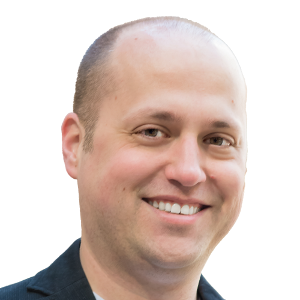
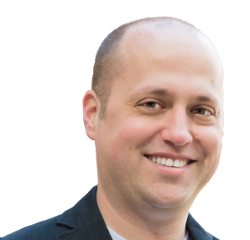
update small headshot to be a better size

diff --git a/assets/all.css b/assets/all.css
@@ -1,3 +1,3 @@
-#content{margin-top:.9375rem;padding:.9375rem}.embed-container{position:relative;padding-bottom:56.25%;padding-top:30px;height:0;overflow:hidden}.embed-container embed,.embed-container iframe,.embed-container object{position:absolute;top:0;left:0;height:100%;width:100%}@font-face{font-family:fontello;src:url(../font/fontello.eot?14708222);src:url(../font/fontello.eot?14708222#iefix) format("embedded-opentype"),url(../font/fontello.woff?14708222) format("woff"),url(../font/fontello.ttf?14708222) format("truetype"),url(../font/fontello.svg?14708222#fontello) format("svg");font-weight:400;font-style:normal}[class*=" icon-"]:before,[class^=icon-]:before{font-family:fontello;font-style:normal;font-weight:400;speak:none;display:inline-block;text-decoration:inherit;width:1em;margin-right:.2em;text-align:center;font-variant:normal;text-transform:none;line-height:1em;margin-left:.2em;-webkit-font-smoothing:antialiased;-moz-osx-font-smoothing:grayscale}.icon-key:before{content:'\e800'}.icon-rss:before{content:'\e801'}.icon-clock:before{content:'\e802'}.icon-left:before{content:'\e804'}.icon-right:before{content:'\e805'}.icon-twitter:before{content:'\e806'}.icon-github:before{content:'\e807'}.icon-google-plus:before{content:'\e808'}.icon-facebook:before{content:'\e809'}.icon-email:before{content:'\e80b'}#footer{color:#9e9e9e;margin-top:3.75rem}#footer .links{display:-webkit-flex;display:-ms-flexbox;display:flex;-webkit-justify-content:space-between;-ms-flex-pack:justify;justify-content:space-between;margin-top:.9375rem;padding:.9375rem .46875rem}#footer .links a{color:#9e9e9e;font-size:1.25em}#footer p{font-size:.9em;margin:0;padding:0 .9375rem}#footer .copyright{font-size:.7em;padding:.9375rem .46875rem;text-align:center}.button{background-color:#649030;border:0;color:#fff;margin-top:.9375rem;padding:8px}.button:hover{opacity:.75}#header{background-color:#393939}#header .container{display:-webkit-flex;display:-ms-flexbox;display:flex;-webkit-justify-content:space-between;-ms-flex-pack:justify;justify-content:space-between;-webkit-flex-wrap:wrap;-ms-flex-wrap:wrap;flex-wrap:wrap;padding:.9375rem 0 0;position:relative}@media only screen and (min-width:590px){#header .container{padding:.9375rem .9375rem 0}}#header .logo{-webkit-flex-basis:100%;-ms-flex-preferred-size:100%;flex-basis:100%}@media only screen and (min-width:590px){#header .logo{-webkit-flex-basis:300px;-ms-flex-preferred-size:300px;flex-basis:300px}}#header .logo a{display:-webkit-flex;display:-ms-flexbox;display:flex;-webkit-justify-content:center;-ms-flex-pack:center;justify-content:center;-webkit-align-items:center;-ms-flex-align:center;align-items:center}@media only screen and (min-width:590px){#header .logo a{-webkit-justify-content:flex-start;-ms-flex-pack:start;justify-content:flex-start;margin-left:5px}}#header .logo img{height:100px}#header .logo h1{color:#fff;font-size:1.75em;margin:0 0 0 .46875rem}#header ul{-webkit-align-items:flex-end;-ms-flex-align:end;align-items:flex-end;border-top:1px solid #9e9e9e;display:-webkit-flex;display:-ms-flexbox;display:flex;font-size:1.4em;list-style-type:none;margin:0;padding:.9375rem 0;width:100%}@media only screen and (min-width:590px){#header ul{border-top:0;width:auto}}#header ul a{padding-left:.9375rem;color:#9e9e9e}#header ul a:hover{color:#fff}.header{background-color:#393939;padding-top:.9375rem;margin-bottom:.9375rem}.homepage-header{-webkit-align-items:center;-ms-flex-align:center;-ms-grid-row-align:center;align-items:center;color:#fff}@media only screen and (min-width:590px){.homepage-header{height:300px}}.homepage-header img{float:left;height:150px;padding-right:1.875rem}@media only screen and (min-width:590px){.homepage-header img{height:300px}}.homepage-header .intro{-webkit-align-items:center;-ms-flex-align:center;align-items:center;display:-webkit-flex;display:-ms-flexbox;display:flex;height:150px;margin:0}@media only screen and (min-width:590px){.homepage-header .intro{padding-top:3.75rem;height:auto}}.homepage-header .sign-up{border-top:1px solid #9e9e9e;padding:.9375rem;text-align:center}.homepage-header .sign-up>p{margin:0}.homepage-header .sign-up>p:not(:last-child){padding-bottom:.9375rem}@media only screen and (min-width:590px){.homepage-header .sign-up{border:0;text-align:inherit}}.homepage{padding:.9375rem}@media only screen and (min-width:720px){.homepage{padding:.9375rem 0 0}}.homepage .section:not(:first-child){margin-top:2.8125rem}.homepage .section h2{font-size:2em}.homepage .section h3{font-size:1.25em;margin-bottom:.46875rem}.homepage .sub-section{display:-webkit-flex;display:-ms-flexbox;display:flex;-webkit-justify-content:space-between;-ms-flex-pack:justify;justify-content:space-between;-webkit-flex-wrap:wrap;-ms-flex-wrap:wrap;flex-wrap:wrap}.homepage .sub-section>div{-webkit-flex:0 0 100%;-ms-flex:0 0 100%;flex:0 0 100%;margin-top:.9375rem}@media only screen and (min-width:590px){.homepage .sub-section>div{-webkit-flex:0 0 48%;-ms-flex:0 0 48%;flex:0 0 48%;margin-top:0}}.homepage .sub-section>div.full{-webkit-flex-basis:100%;-ms-flex-preferred-size:100%;flex-basis:100%}.homepage .sub-section p{margin:0}.homepage .sub-section ul{list-style-type:none;padding-left:.9375rem}.homepage .sub-section ol{margin-top:.9375rem;padding-left:.9375rem}.homepage .description .logo{margin-right:.9375rem;float:left}.homepage .description .logo.active-interaction{font-size:60px;line-height:60px}.homepage .subtle{color:#6b6b6b}.homepage .all-posts{display:block;font-size:2em;text-align:center;width:100%}.image{margin-bottom:1.25rem;width:100%}.image.center{text-align:center}.image.left{text-align:left}.image img{max-width:100%}.image em{color:#9e9e9e;display:block;font-size:.8rem}*,:after,:before{box-sizing:border-box}body{color:#222;font-family:Helvetica Neue,Helvetica,Arial,sans-serif;font-size:16px;line-height:150%}h1,h2,h3,h4{font-weight:700;line-height:1.1;margin:0}h2{font-size:2.5rem}@media only screen and (min-width:590px){h2{font-size:3rem}}h3{font-size:1.6875rem}a{color:#20ade5;text-decoration:none}a:hover{color:#168dbc}time{color:#9e9e9e;display:block;font-size:.8rem;font-style:italic;margin:.9375rem 0}.container{max-width:700px;min-width:320px;margin:auto}ol.posts{margin:0;padding:0;list-style-type:none}ol.posts li{margin-bottom:3.75rem}ol.posts li>a{color:#222}figure{margin-left:0!important}blockquote{color:#757575;border-left:1px solid #9e9e9e;margin:.9375rem;padding-left:.9375rem}kbd{background-color:#f8f8f8;border:1px solid #e0e0e0;border-radius:3px;padding:.125rem .3125rem .0625rem}
+#content{margin-top:.9375rem;padding:.9375rem}.embed-container{position:relative;padding-bottom:56.25%;padding-top:30px;height:0;overflow:hidden}.embed-container embed,.embed-container iframe,.embed-container object{position:absolute;top:0;left:0;height:100%;width:100%}@font-face{font-family:fontello;src:url(../font/fontello.eot?14708222);src:url(../font/fontello.eot?14708222#iefix) format("embedded-opentype"),url(../font/fontello.woff?14708222) format("woff"),url(../font/fontello.ttf?14708222) format("truetype"),url(../font/fontello.svg?14708222#fontello) format("svg");font-weight:400;font-style:normal}[class*=" icon-"]:before,[class^=icon-]:before{font-family:fontello;font-style:normal;font-weight:400;speak:none;display:inline-block;text-decoration:inherit;width:1em;margin-right:.2em;text-align:center;font-variant:normal;text-transform:none;line-height:1em;margin-left:.2em;-webkit-font-smoothing:antialiased;-moz-osx-font-smoothing:grayscale}.icon-key:before{content:'\e800'}.icon-rss:before{content:'\e801'}.icon-clock:before{content:'\e802'}.icon-left:before{content:'\e804'}.icon-right:before{content:'\e805'}.icon-twitter:before{content:'\e806'}.icon-github:before{content:'\e807'}.icon-google-plus:before{content:'\e808'}.icon-facebook:before{content:'\e809'}.icon-email:before{content:'\e80b'}#footer{color:#9e9e9e;margin-top:3.75rem}#footer .links{display:-webkit-flex;display:-ms-flexbox;display:flex;-webkit-justify-content:space-between;-ms-flex-pack:justify;justify-content:space-between;margin-top:.9375rem;padding:.9375rem .46875rem}#footer .links a{color:#9e9e9e;font-size:1.25em}#footer p{font-size:.9em;margin:0;padding:0 .9375rem}#footer .copyright{font-size:.7em;padding:.9375rem .46875rem;text-align:center}.button{background-color:#649030;border:0;color:#fff;margin-top:.9375rem;padding:8px}.button:hover{opacity:.75}#header{background-color:#393939}#header .container{display:-webkit-flex;display:-ms-flexbox;display:flex;-webkit-justify-content:space-between;-ms-flex-pack:justify;justify-content:space-between;-webkit-flex-wrap:wrap;-ms-flex-wrap:wrap;flex-wrap:wrap;padding:.9375rem 0 0;position:relative}@media only screen and (min-width:590px){#header .container{padding:.9375rem .9375rem 0}}#header .logo{-webkit-flex-basis:100%;-ms-flex-preferred-size:100%;flex-basis:100%}@media only screen and (min-width:590px){#header .logo{-webkit-flex-basis:300px;-ms-flex-preferred-size:300px;flex-basis:300px}}#header .logo a{display:-webkit-flex;display:-ms-flexbox;display:flex;-webkit-justify-content:center;-ms-flex-pack:center;justify-content:center;-webkit-align-items:center;-ms-flex-align:center;align-items:center}@media only screen and (min-width:590px){#header .logo a{-webkit-justify-content:flex-start;-ms-flex-pack:start;justify-content:flex-start;margin-left:5px}}#header .logo img{height:120px}#header .logo h1{color:#fff;font-size:1.75em;margin:0 0 0 .46875rem}#header ul{-webkit-align-items:flex-end;-ms-flex-align:end;align-items:flex-end;border-top:1px solid #9e9e9e;display:-webkit-flex;display:-ms-flexbox;display:flex;font-size:1.4em;list-style-type:none;margin:0;padding:.9375rem 0;width:100%}@media only screen and (min-width:590px){#header ul{border-top:0;width:auto}}#header ul a{padding-left:.9375rem;color:#9e9e9e}#header ul a:hover{color:#fff}.header{background-color:#393939;padding-top:.9375rem;margin-bottom:.9375rem}.homepage-header{-webkit-align-items:center;-ms-flex-align:center;-ms-grid-row-align:center;align-items:center;color:#fff}@media only screen and (min-width:590px){.homepage-header{height:300px}}.homepage-header img{float:left;height:120px;padding-right:1.875rem}@media only screen and (min-width:590px){.homepage-header img{height:300px}}.homepage-header .intro{-webkit-align-items:center;-ms-flex-align:center;align-items:center;display:-webkit-flex;display:-ms-flexbox;display:flex;height:120px;margin:0}@media only screen and (min-width:590px){.homepage-header .intro{padding-top:3.75rem;height:auto}}.homepage-header .sign-up{border-top:1px solid #9e9e9e;padding:.9375rem;text-align:center}.homepage-header .sign-up>p{margin:0}.homepage-header .sign-up>p:not(:last-child){padding-bottom:.9375rem}@media only screen and (min-width:590px){.homepage-header .sign-up{border:0;text-align:inherit}}.homepage{padding:.9375rem}@media only screen and (min-width:720px){.homepage{padding:.9375rem 0 0}}.homepage .section:not(:first-child){margin-top:2.8125rem}.homepage .section h2{font-size:2em}.homepage .section h3{font-size:1.25em;margin-bottom:.46875rem}.homepage .sub-section{display:-webkit-flex;display:-ms-flexbox;display:flex;-webkit-justify-content:space-between;-ms-flex-pack:justify;justify-content:space-between;-webkit-flex-wrap:wrap;-ms-flex-wrap:wrap;flex-wrap:wrap}.homepage .sub-section>div{-webkit-flex:0 0 100%;-ms-flex:0 0 100%;flex:0 0 100%;margin-top:.9375rem}@media only screen and (min-width:590px){.homepage .sub-section>div{-webkit-flex:0 0 48%;-ms-flex:0 0 48%;flex:0 0 48%;margin-top:0}}.homepage .sub-section>div.full{-webkit-flex-basis:100%;-ms-flex-preferred-size:100%;flex-basis:100%}.homepage .sub-section p{margin:0}.homepage .sub-section ul{list-style-type:none;padding-left:.9375rem}.homepage .sub-section ol{margin-top:.9375rem;padding-left:.9375rem}.homepage .description .logo{margin-right:.9375rem;float:left}.homepage .description .logo.active-interaction{font-size:60px;line-height:60px}.homepage .subtle{color:#6b6b6b}.homepage .all-posts{display:block;font-size:2em;text-align:center;width:100%}.image{margin-bottom:1.25rem;width:100%}.image.center{text-align:center}.image.left{text-align:left}.image img{max-width:100%}.image em{color:#9e9e9e;display:block;font-size:.8rem}*,:after,:before{box-sizing:border-box}body{color:#222;font-family:Helvetica Neue,Helvetica,Arial,sans-serif;font-size:16px;line-height:150%}h1,h2,h3,h4{font-weight:700;line-height:1.1;margin:0}h2{font-size:2.5rem}@media only screen and (min-width:590px){h2{font-size:3rem}}h3{font-size:1.6875rem}a{color:#20ade5;text-decoration:none}a:hover{color:#168dbc}time{color:#9e9e9e;display:block;font-size:.8rem;font-style:italic;margin:.9375rem 0}.container{max-width:700px;min-width:320px;margin:auto}ol.posts{margin:0;padding:0;list-style-type:none}ol.posts li{margin-bottom:3.75rem}ol.posts li>a{color:#222}figure{margin-left:0!important}blockquote{color:#757575;border-left:1px solid #9e9e9e;margin:.9375rem;padding-left:.9375rem}kbd{background-color:#f8f8f8;border:1px solid #e0e0e0;border-radius:3px;padding:.125rem .3125rem .0625rem}
 
 /*! normalize.css v3.0.3 | MIT License | github.com/necolas/normalize.css */html{font-family:sans-serif;-ms-text-size-adjust:100%;-webkit-text-size-adjust:100%}body{margin:0}article,aside,details,figcaption,figure,footer,header,hgroup,main,menu,nav,section,summary{display:block}audio,canvas,progress,video{display:inline-block;vertical-align:baseline}audio:not([controls]){display:none;height:0}[hidden],template{display:none}a{background-color:transparent}a:active,a:hover{outline:0}abbr[title]{border-bottom:1px dotted}b,strong{font-weight:700}dfn{font-style:italic}h1{font-size:2em;margin:.67em 0}mark{background:#ff0;color:#000}small{font-size:80%}sub,sup{font-size:75%;line-height:0;position:relative;vertical-align:baseline}sup{top:-.5em}sub{bottom:-.25em}img{border:0}svg:not(:root){overflow:hidden}figure{margin:1em 40px}hr{box-sizing:content-box;height:0}pre{overflow:auto}code,kbd,pre,samp{font-family:monospace;font-size:1em}button,input,optgroup,select,textarea{color:inherit;font:inherit;margin:0}button{overflow:visible}button,select{text-transform:none}button,html input[type=button],input[type=reset],input[type=submit]{-webkit-appearance:button;cursor:pointer}button[disabled],html input[disabled]{cursor:default}button::-moz-focus-inner,input::-moz-focus-inner{border:0;padding:0}input{line-height:normal}input[type=checkbox],input[type=radio]{box-sizing:border-box;padding:0}input[type=number]::-webkit-inner-spin-button,input[type=number]::-webkit-outer-spin-button{height:auto}input[type=search]{-webkit-appearance:textfield;box-sizing:content-box}input[type=search]::-webkit-search-cancel-button,input[type=search]::-webkit-search-decoration{-webkit-appearance:none}fieldset{border:1px solid silver;margin:0 2px;padding:.35em .625em .75em}legend{border:0;padding:0}textarea{overflow:auto}optgroup{font-weight:700}table{border-collapse:collapse;border-spacing:0}td,th{padding:0}ul.pagination{display:-webkit-flex;display:-ms-flexbox;display:flex;-webkit-justify-content:center;-ms-flex-pack:center;justify-content:center;list-style-type:none;padding:0}ul.pagination li{margin-left:.3125rem}ul.pagination li a{color:#9e9e9e;border-radius:3px;padding:.0625rem .625rem}ul.pagination li.current a{background-color:#20ade5;color:#fff;font-weight:700}ul.pagination li.current a:hover{background-color:#168dbc}.panel{border:1px solid #d8d8d8;margin-bottom:1.25rem;padding:1.25rem;background:#f2f2f2}.panel.callout{border-color:#c1e8f8;background:#f2fafd}.footnotes li{list-style-type:decimal!important}.footnotes p{margin:0}#share{margin-top:2.8125rem;text-align:center}#share a{color:#fff;padding:8px}#share a:not(:last-child){margin-right:.9375rem}#share a:hover{opacity:.75}#share .twitter{background-color:#55acee}#share .google-plus{background-color:#db4437}#share .facebook{background-color:#3b5998}#subscribe{display:-webkit-flex;display:-ms-flexbox;display:flex;border:1px solid #ccc;background-color:#eee;margin:2.8125rem auto 0;max-width:450px;padding:.9375rem;text-align:center}@media only screen and (min-width:590px){#subscribe{padding:.9375rem 0 .9375rem .9375rem}}#subscribe img{display:none}@media only screen and (min-width:590px){#subscribe img{display:block}}#subscribe .title{font-size:1.4em;font-weight:700;margin-bottom:.9375rem}#subscribe input[type=email]{width:100%}@media only screen and (min-width:590px){#subscribe input[type=email]{width:inherit}}@media only screen and (min-width:590px){#subscribe .button{margin-left:.46875rem;margin-top:0}}.subscribe input[type=email]{border:0;color:#222;padding:0 8px;height:36px}@media only screen and (min-width:590px){.subscribe .button{margin-left:.46875rem;margin-top:0}}code{background-color:#f8f8f8;border:1px solid #e0e0e0;color:#222;font-family:Consolas,Courier,monospace;padding:.125rem .3125rem .0625rem}pre code{background-color:#fff;border:0;padding:0}.highlight{background:#fff;border-left:.25em solid #ccc;line-height:1.3;margin-bottom:.9375rem;padding-left:.5em}li .highlight{margin-top:.9375rem}.highlight .c{color:#998;font-style:italic}.highlight .err{color:#a61717;background-color:#e3d2d2}.highlight .k,.highlight .o{font-weight:700}.highlight .cm{color:#998;font-style:italic}.highlight .cp{color:#999;font-weight:700}.highlight .c1{color:#998;font-style:italic}.highlight .cs{color:#999;font-weight:700;font-style:italic}.highlight .gd{color:#000;background-color:#fdd}.highlight .gd .x{color:#000;background-color:#faa}.highlight .ge{font-style:italic}.highlight .gr{color:#a00}.highlight .gh{color:#999}.highlight .gi{color:#000;background-color:#dfd}.highlight .gi .x{color:#000;background-color:#afa}.highlight .go{color:#888}.highlight .gp{color:#555}.highlight .gs{font-weight:700}.highlight .gu{color:#aaa}.highlight .gt{color:#a00}.highlight .kc,.highlight .kd,.highlight .kp,.highlight .kr,.highlight .kt{font-weight:700}.highlight .kt{color:#458}.highlight .m{color:#099}.highlight .s{color:#d14}.highlight .na{color:teal}.highlight .nb{color:#0086b3}.highlight .nc{color:#458;font-weight:700}.highlight .no{color:teal}.highlight .ni{color:purple}.highlight .ne,.highlight .nf{color:#900;font-weight:700}.highlight .nn{color:#555}.highlight .nt{color:navy}.highlight .nv{color:teal}.highlight .ow{font-weight:700}.highlight .w{color:#bbb}.highlight .mf,.highlight .mh,.highlight .mi,.highlight .mo{color:#099}.highlight .s2,.highlight .sb,.highlight .sc,.highlight .sd,.highlight .se,.highlight .sh,.highlight .si,.highlight .sx{color:#d14}.highlight .sr{color:#009926}.highlight .s1{color:#d14}.highlight .ss{color:#990073}.highlight .bp{color:#999}.highlight .vc,.highlight .vg,.highlight .vi{color:teal}.highlight .il{color:#099}

diff --git a/_css/homepage.scss b/_css/homepage.scss
@@ -16,7 +16,7 @@
 
   img {
     float: left;
-    height: 150px;
+    height: 120px;
     padding-right: $spacing * 2;
 
     @media only screen and (min-width: $screen-small) {
@@ -27,7 +27,7 @@
   .intro {
     align-items: center;
     display: flex;
-    height: 150px;
+    height: 120px;
     margin: 0px;
 
     @media only screen and (min-width: $screen-small) {

diff --git a/_css/header.scss b/_css/header.scss
@@ -35,7 +35,7 @@
     }
 
     img {
-      height: 100px;
+      height: 120px;
     }
 
     h1 {
